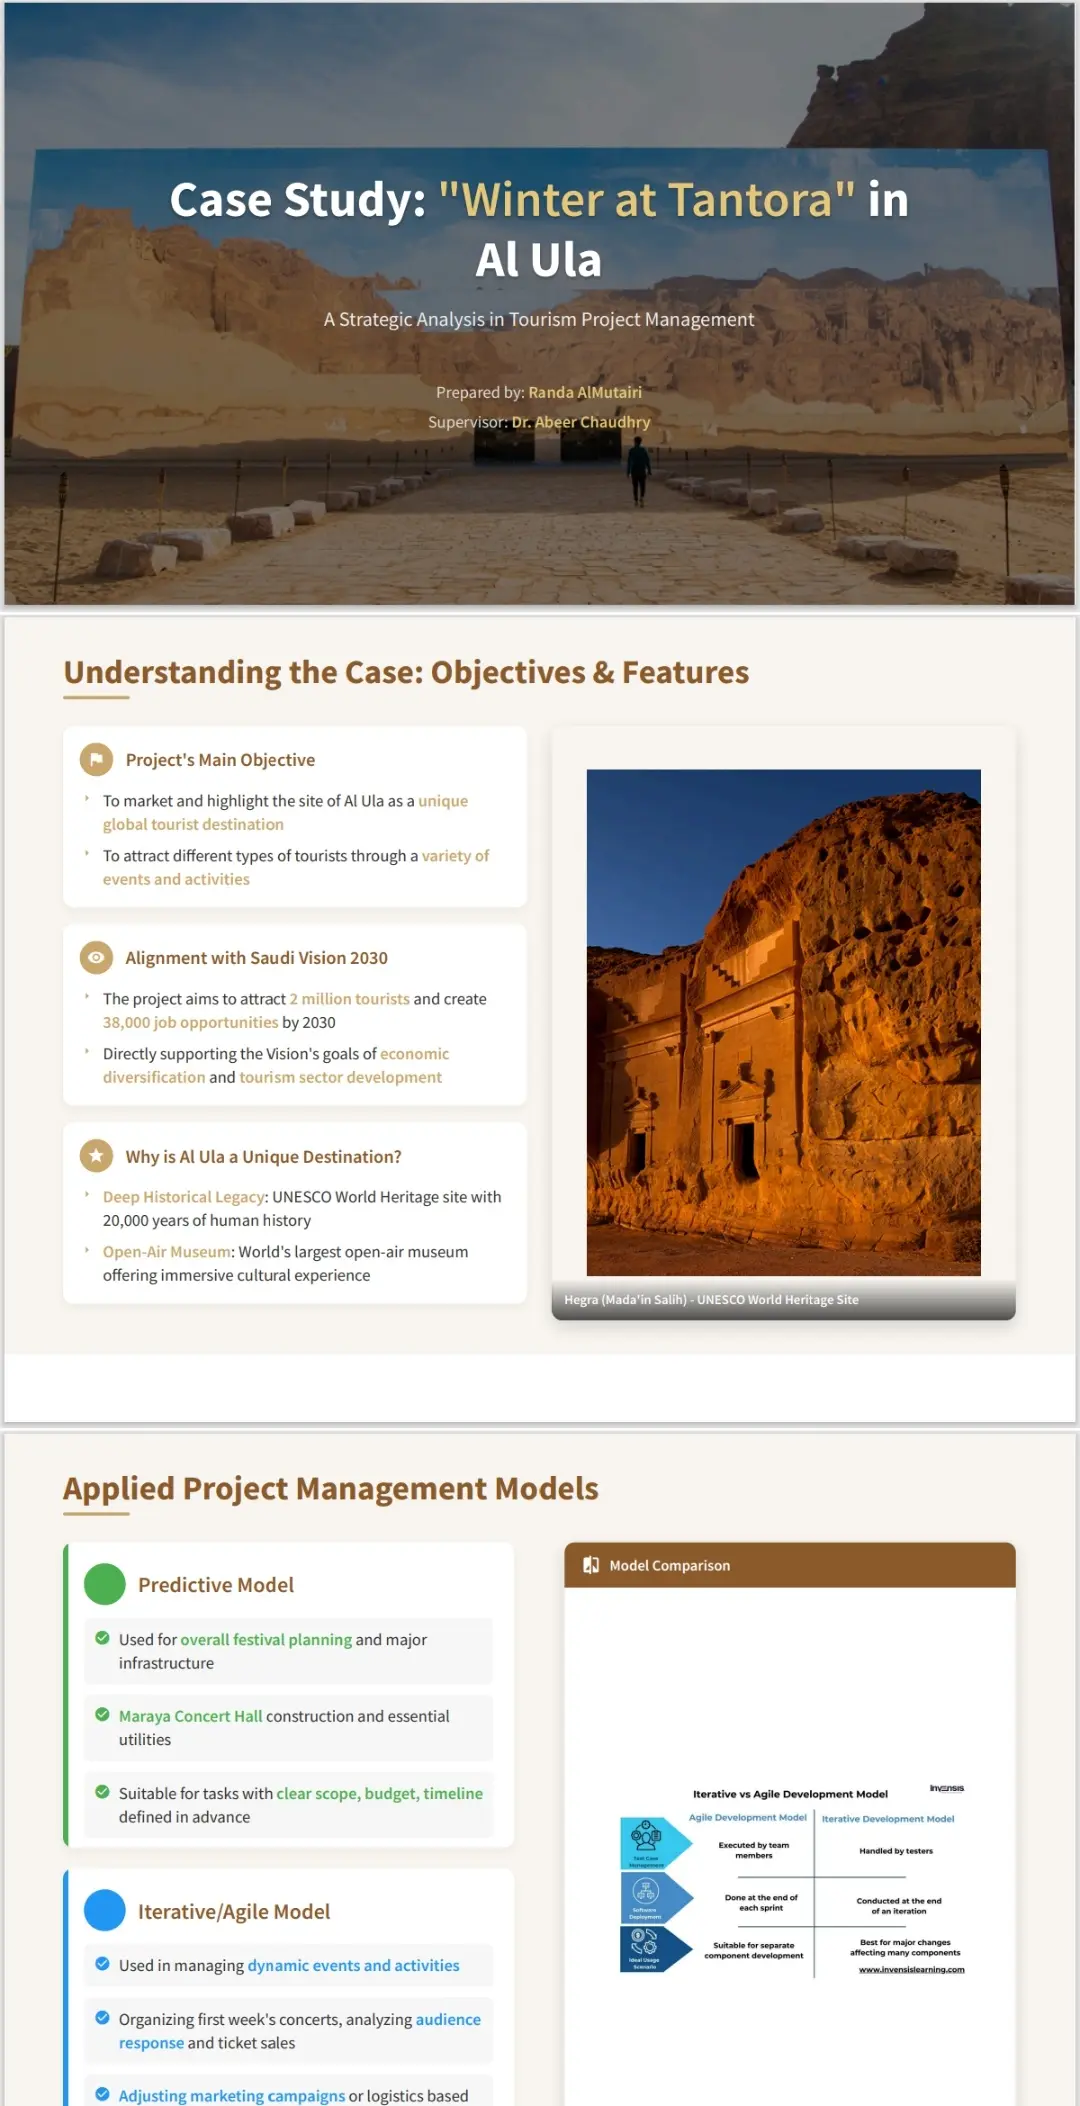
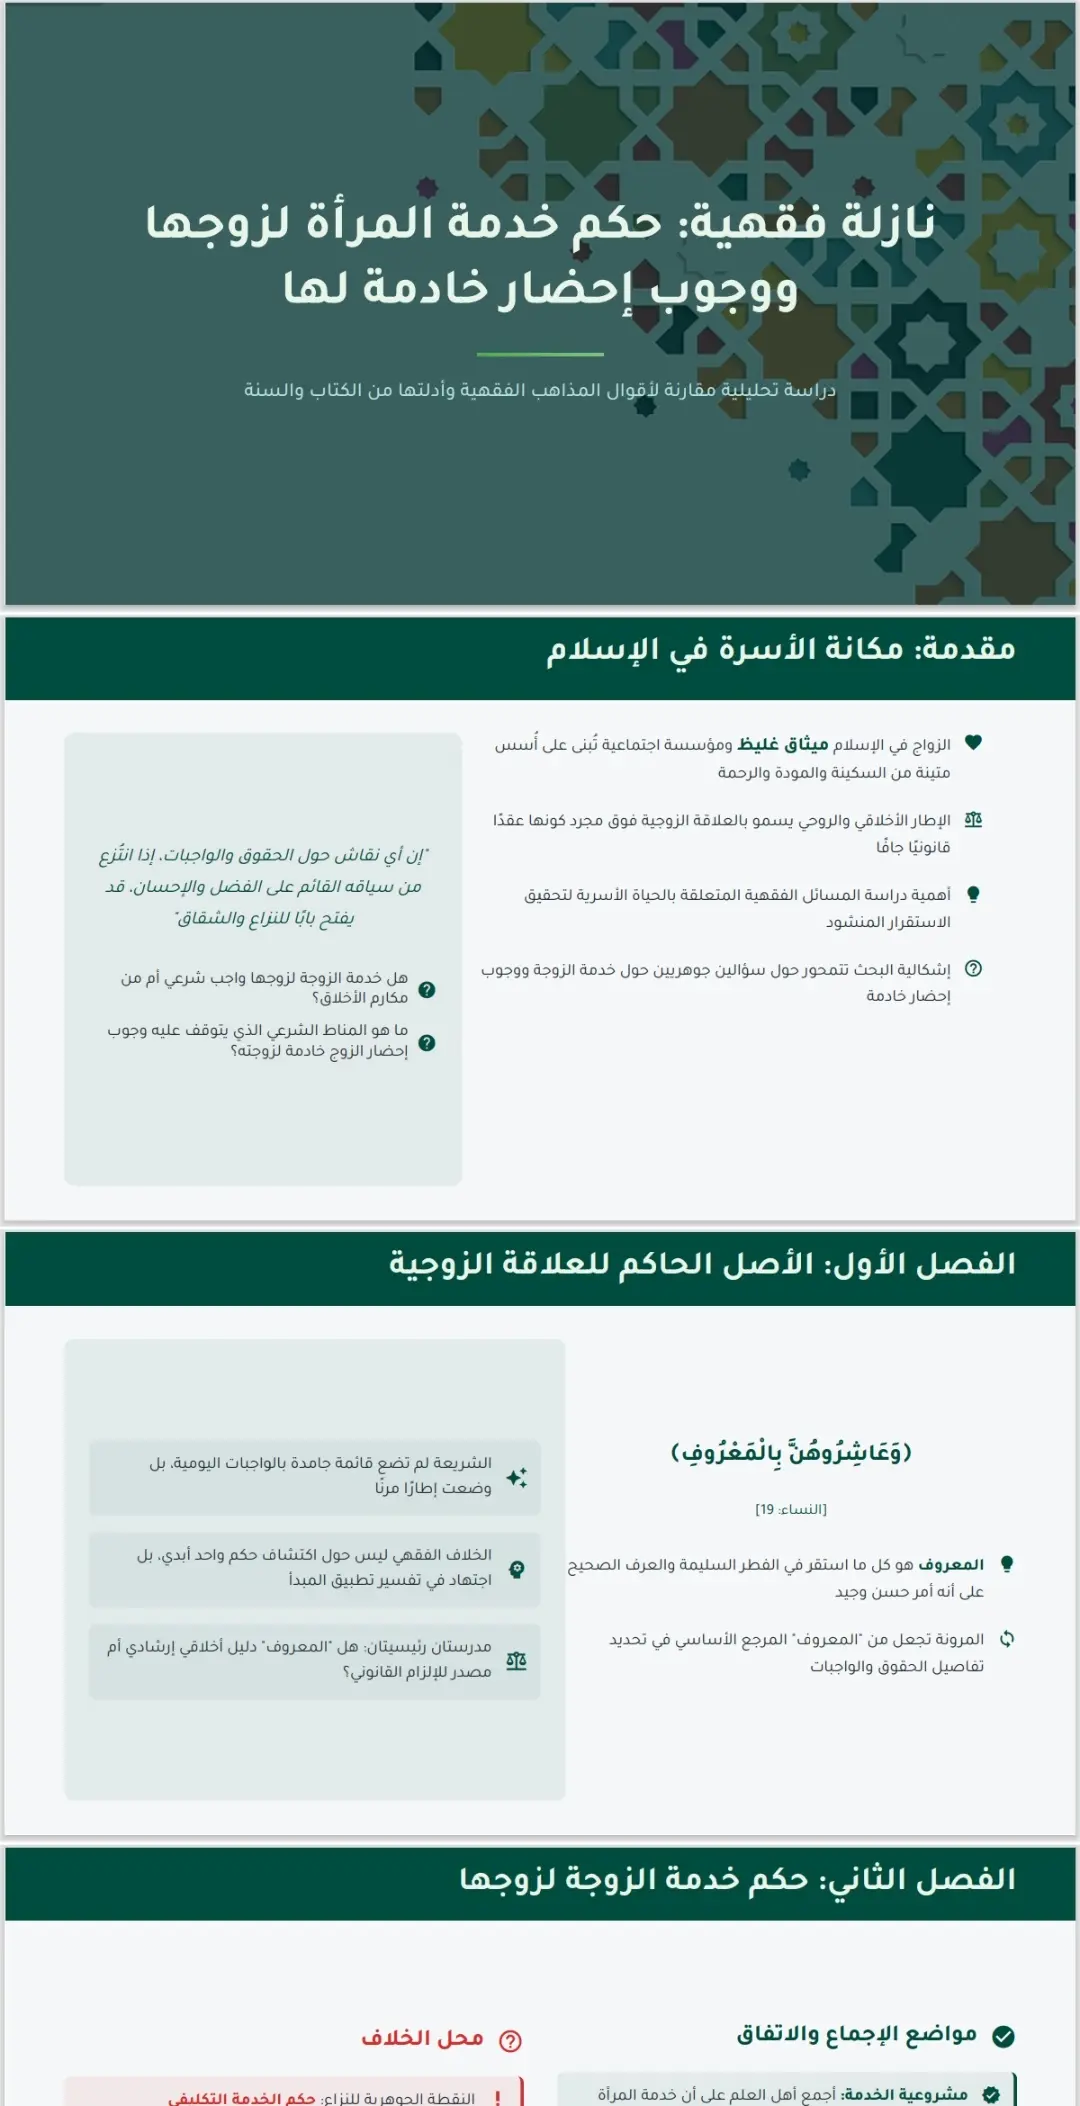
Replace research preview with privacy-safe Arabic sample

diff --git a/js/projects.js b/js/projects.js
@@ -67,7 +67,7 @@ window.PORTFOLIO_PROJECTS = [
 
   {id:"radiology-plan",title:"الخطة التطويرية المقترحة لقسم الأشعة",section:"client-projects",cover:driveThumb("17mQ1Qd36mGcr3qBpgOAkRWypxX8LyXIg"),previewUrl:drivePreview("17mQ1Qd36mGcr3qBpgOAkRWypxX8LyXIg")},
 
-  {id:"research-sample",title:"دراسة حالة — Winter at Tantora في العلا",section:"research",cover:"assets/research-winter-at-tantora.webp",imageUrls:["assets/research-winter-at-tantora.webp"]},
+  {id:"research-sample",title:"دراسة فقهية مقارنة — حكم خدمة المرأة لزوجها",section:"research",cover:"assets/research-winter-at-tantora.webp?v=20260815-2",imageUrls:["assets/research-winter-at-tantora.webp?v=20260815-2"]},
 
   {id:"ats-cv-collection",title:"نماذج CV وفق نظام ATS",section:"ats-cv",spriteCell:[0,5],galleryCells:[[0,5],[1,5],[2,5],[3,5]],ctaLabel:"استعراض نماذج CV"},
 

diff --git a/index.html b/index.html
@@ -103,7 +103,7 @@
     </article>
   </div>
 
-  <script src="js/projects.js?v=20260815-portfolio-2"></script>
-  <script src="js/main.js?v=20260815-portfolio-2"></script>
+  <script src="js/projects.js?v=20260815-portfolio-3"></script>
+  <script src="js/main.js?v=20260815-portfolio-3"></script>
 </body>
 </html>
